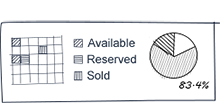
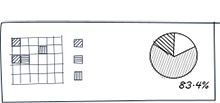
样式改版

Changed region(s): [[0.3818, 0.5243, 0.6273, 0.6408], [0.3818, 0.3495, 0.6273, 0.466], [0.3818, 0.6699, 0.5182, 0.7864]]

diff --git a/app/components/account/login.js b/app/components/account/login.js
@@ -370,7 +370,11 @@ class Login extends React.Component {
                                         <span>{messages.socialSharing}</span><img src={agencyDraw4}/>
                                     </div>
                                     <div className="agency_draw5">
-                                        <span>{messages.salesData}</span><img src={agencyDraw5}/>
+                                        <span>{messages.salesData}</span>
+                                        <b className="myAvailable">{messages.available}</b>
+                                        <b className="myReserved">{messages.reserved}</b>
+                                        <b className="mySold">{messages.sold}</b>
+                                        <img src={agencyDraw5}/>
                                     </div>
                                     <img className="agency_draw6" src={agencyDraw6}/>
                                 </div>

diff --git a/app/asset/css/ipx_agent_main.css b/app/asset/css/ipx_agent_main.css
@@ -61,6 +61,10 @@ body *{
 .agency_draw5 {position:absolute; left: 17px; top: 140px;}
 .agency_draw6 {position:absolute; left:70px; bottom:50px; }
 .myAuthorize {width:63px; height:16px; line-height:15px; text-align:center; position:absolute; top:91px; left:14px; font-size:12px}
+.myAvailable {width:33.91%; height:12.17%; line-height:8px; text-align:left; position:absolute; top:38%; left:39.6%; font-size:8px; font-weight:normal}
+.myReserved {width:33.91%; height:12.17%; line-height:8px; text-align:left; position:absolute;top: 52.5%; left: 39.6%; font-size:8px; font-weight:normal}
+.mySold {width:33.91%; height:12.17%; line-height:8px; text-align:left; position:absolute; top:68%; left:39.6%; font-size:8px; font-weight:normal}
+
 /*动画部分*/
 .animationbox {position:absolute; top:0; left:0; width:1200px; height:600px; z-index:1}
 .amtn_3people {top:135px; left:0; position:absolute; }
